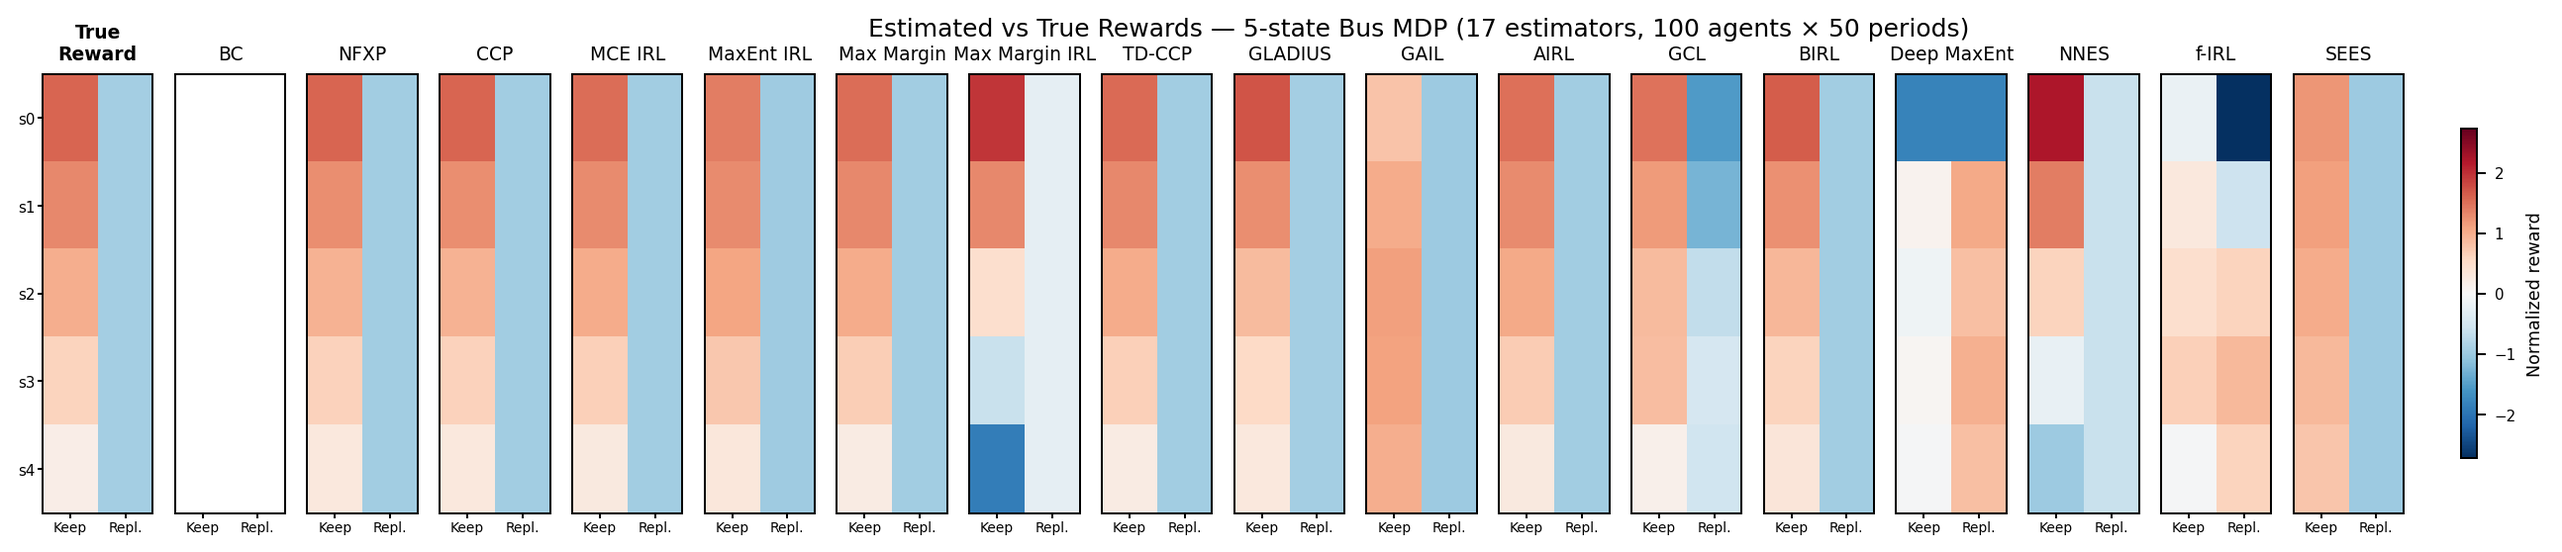
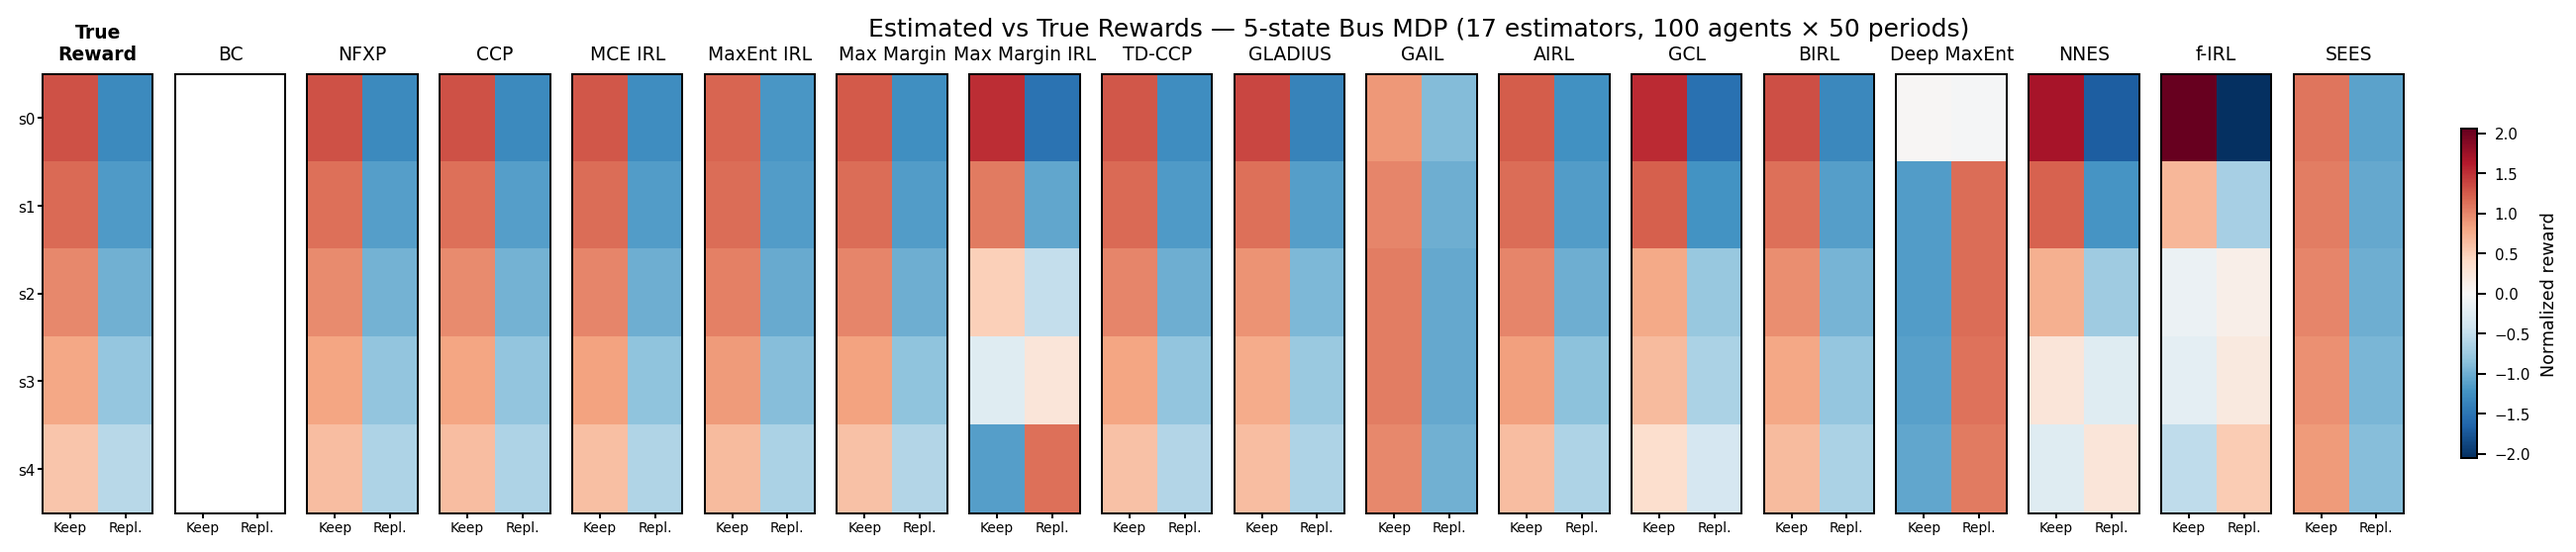
fix: normalize reward heatmaps by centering each state row (removes unidentified f(s))

diff --git a/docs/generate_readme_figures.py b/docs/generate_readme_figures.py
@@ -107,7 +107,9 @@ def _save_cache(panels: dict[str, dict]) -> None:
 # ── Utilities ──────────────────────────────────────────────────────
 
 def _normalize(r: np.ndarray) -> np.ndarray:
-    """Normalize to zero-mean, unit-variance (handles IRL scale ambiguity)."""
+    """Normalize for comparison (removes unidentified state-dependent constant)."""
+    # IRL rewards are identified up to r(s,a) + f(s); center each state row
+    r = r - r.mean(axis=1, keepdims=True)
     std = r.std()
     if std < 1e-10:
         return r - r.mean()
